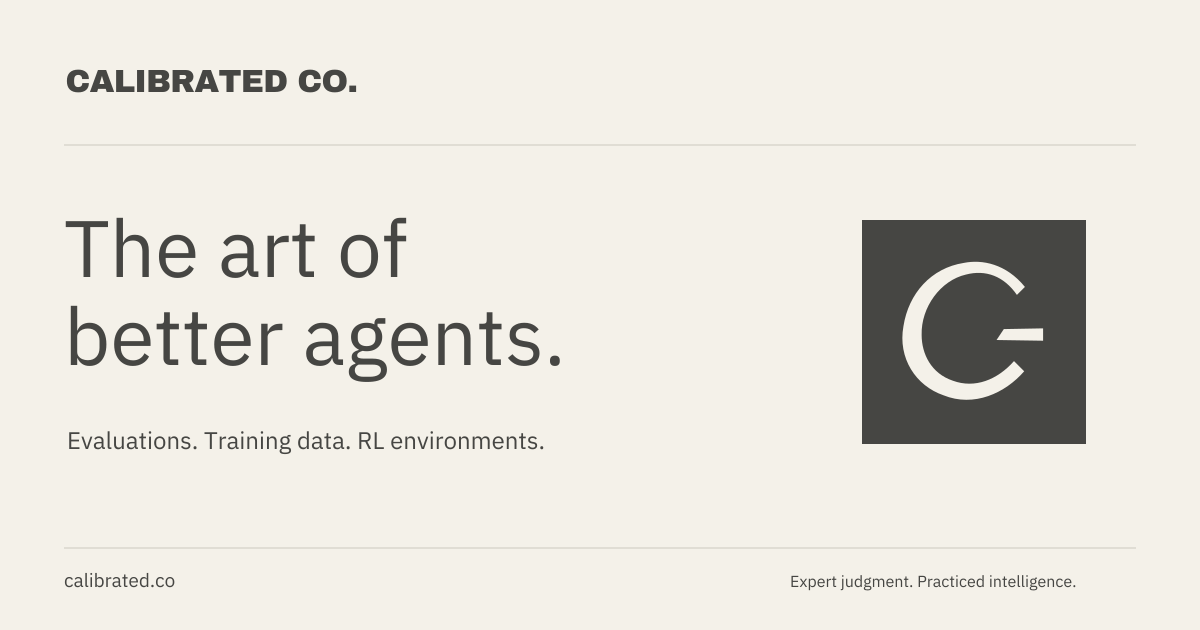
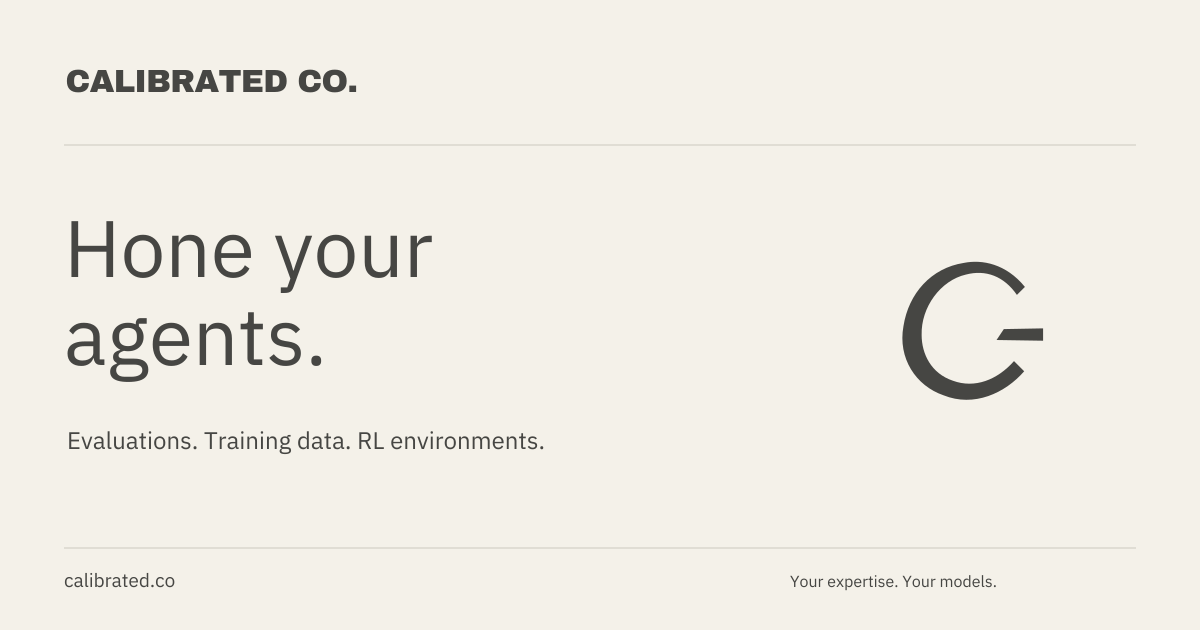
Center Calibrated on company expertise and knowledge-work agents

diff --git a/marketing/public/styles.css b/marketing/public/styles.css
@@ -238,7 +238,7 @@ strong {
   flex-shrink: 0;
 }
 .mark {
-  background: var(--ink);
+  background: transparent;
   display: flex;
   align-items: center;
   justify-content: center;
@@ -2100,4 +2100,24 @@ form > .caption {
   .hero-company .hero-art > img { height: 235px; }
   .hero-company .hero-art figcaption { margin-top: 12px; font-size: 12px; }
   .raw-result pre { padding: 12px; font-size: 10px; }
+}
+
+/* Company expertise and knowledge-work positioning. */
+.systems-band { border-block: 1px solid var(--line); padding: 34px 0 40px; }
+.systems-band h2 { font-family: Plex, sans-serif; font-size: 16px; letter-spacing: 0; text-align: center; line-height: 1.5; }
+.systems-list { display: flex; flex-wrap: wrap; justify-content: space-between; align-items: center; gap: 24px 32px; padding: 30px 0 0; margin: 0; list-style: none; }
+.systems-list li { font-size: 23px; white-space: nowrap; }
+.knowledge-thesis .prose p + p { margin-top: 20px; }
+.affiliation-list { display: flex; flex-wrap: wrap; gap: 28px 9%; list-style: none; margin: 0; padding: 20px 0; }
+.affiliation-list li { font-family: Plex, sans-serif; font-size: clamp(30px, 4vw, 52px); }
+.workflow-study { list-style: none; margin: 0; padding: 0; }
+.workflow-study li { display: grid; grid-template-columns: 160px 1fr 1.3fr; gap: 28px; padding: 30px 0; border-top: 1px solid var(--line); }
+.workflow-study h3 { font-size: 24px; line-height: 1.3; }
+.workflow-study p { line-height: 1.65; }
+@media (max-width: 700px) {
+  .systems-list { justify-content: center; gap: 22px 32px; }
+  .systems-list li { font-size: 20px; }
+  .systems-band h2 { max-width: 280px; margin: auto; }
+  .workflow-study li { grid-template-columns: 1fr; gap: 12px; }
+  .affiliation-list { gap: 24px; justify-content: space-between; }
 }

diff --git a/marketing/scripts/generate-share.py b/marketing/scripts/generate-share.py
@@ -25,11 +25,11 @@ def asset(name,x,y,width,height):
 svg='<svg xmlns="http://www.w3.org/2000/svg" width="1200" height="630" viewBox="0 0 1200 630"><rect width="1200" height="630" fill="#F4F1E9"/>'
 svg+=asset('calibrated-wordmark-ink.svg',64,60,295,42)
 svg+='<path d="M64 145H1136M64 548H1136" stroke="#CCC9C0"/>'
-svg+=text('The art of',64,277,80)+text('better agents.',64,365,80)
+svg+=text('Hone your',64,277,80)+text('agents.',64,365,80)
 svg+=text('Evaluations. Training data. RL environments.',67,449,24)
-svg+='<rect x="862" y="220" width="224" height="224" fill="#464643"/>'
-svg+=asset('calibrated-mark-paper.svg',894,252,160,160)
-svg+=text('calibrated.co',64,587,19)+text('Expert judgment. Practiced intelligence.',790,587,16)
+
+svg+=asset('calibrated-mark-ink.svg',894,252,160,160)
+svg+=text('calibrated.co',64,587,19)+text('Your expertise. Your models.',790,587,16)
 svg+='</svg>'
 (root/'public/assets/share-card.svg').write_text(svg)
 print('Created outlined share-card.svg')

diff --git a/marketing/README.md b/marketing/README.md
@@ -27,7 +27,7 @@ The server binds only to `127.0.0.1`. If the port is occupied, run `PORT=4318 np
 - [Local verification](QA.md)
 - [Approved identity](../brand/calibrated/DESIGN-BRIEF.md)
 
-The default homepage has been rewritten after founder feedback. It leads with AI training, names the three services and includes the graphite hero artwork. Both variations now use the shorter copy. The original JEV results remain available for audit and do not evaluate the revised site. See [the copy review](research/COPY-REVIEW.md).
+The default homepage has been rewritten after founder feedback. It opens with “Hone your agents,” names the three services, presents the company-expertise/open-weight-model thesis and includes the graphite hero artwork. Both variations share the same supporting structure. The original JEV results remain available for audit and do not evaluate the revised site. See [the copy review](research/COPY-REVIEW.md).
 
 ## Files
 
@@ -41,13 +41,13 @@ marketing/
   dist/                Generated static site (ignored)
 ```
 
-Edit copy in `src/pages.mjs` and shared sections in `src/components.mjs`. Change `defaultDirection` in `src/config.mjs` to `craft` or `outcomes`. CSS lives in `public/styles.css`. The build renders complete HTML for every route, so search crawlers and visitors do not need JavaScript to read the pages. JavaScript enhances navigation, the practice case and the brief form.
+Edit copy in `src/pages.mjs` and shared sections in `src/components.mjs`. Change `defaultDirection` in `src/config.mjs` to `craft` or `outcomes`. CSS lives in `public/styles.css`. The build renders complete HTML for every route, so search crawlers and visitors do not need JavaScript to read the pages. JavaScript enhances navigation and the brief form.
 
 ## What works now
 
-Twelve pages, responsive navigation, desktop and phone layouts, direct routes, keyboard controls, native FAQ disclosure, and a functional sample with deterministic posting checks. The brief form can prepare, copy and download text without saving or sending it. The data entry point is an intentional placeholder for the future offering. The leaderboard states that no validated public rankings are connected.
+Twelve pages, responsive navigation, desktop and phone layouts, direct routes, keyboard controls, native FAQ disclosure, and an illustrative knowledge-work workflow. The brief form can prepare, copy and download text without saving or sending it. The data entry point is an intentional placeholder for the future offering. The leaderboard states that no validated public rankings are connected.
 
-The interactive example is sourced from `backend/app/pilot_cases.py`. It is an authored fixture, not a real model run. Its independent expert validation is pending. The browser reimplements its two checks and the tests compare their results against the source snapshot. No QA event is written to the Arena's database.
+The knowledge-work example is an illustrative support workflow, not a live model run or measured result. Historical fixture code remains in the repository but is no longer rendered by the marketing site. Team backgrounds (Stanford, MIT and Verkada) and systems expertise were supplied by the founder; they do not represent vendor or institutional endorsements.
 
 Local webfonts, OFL notices, SVG identity assets and existing generated brand studies are bundled. The share image is a 1200 × 630 PNG with an outlined SVG source. `scripts/generate-share.py` regenerates the SVG with `fonttools`; use a standard SVG renderer such as Sharp for the PNG. These tools are not required to build the site.
 

diff --git a/marketing/QA.md b/marketing/QA.md
@@ -2,6 +2,12 @@
 
 Verified 22 September 2026 on the separate `codex/calibrated-company-site` worktree. This records local website and integration checks, not a public deployment, recruited-persona study or model-performance benchmark.
 
+## Knowledge-work positioning revision
+
+The latest founder-directed pass replaces the public accounting example with an illustrative support workflow, shifts the homepage/company thesis to knowledge work and open-weight models, removes the repeated taglines, and uses an ink C mark with no contrasting background. The link-preview image was regenerated to match. Systems shown are the six named in the founder's screenshot. Stanford, MIT and Verkada are founder-supplied team backgrounds.
+
+Six changed routes were checked at 320, 768 and 1280 pixels: 18 browser layout checks, no overflow, no broken images and no accounting text. The desktop and phone hero were visually inspected, team affiliations verified in the rendered page, and the viewport restored. All generated HTML was searched for the removed labels and accounting references with no matches. The original fixture remains in source/test history but no longer renders publicly. Historical JEV results are unchanged and do not evaluate this revision.
+
 ## Copy cleanup verification
 
 The founder-requested second pass shortened the Outcomes homepage from 574 to 181 main-content words (68%). The hero now names AI training and shows the approved graphite artwork. Supporting service pages were also shortened. The interactive case now lives on `/training/#example`.
